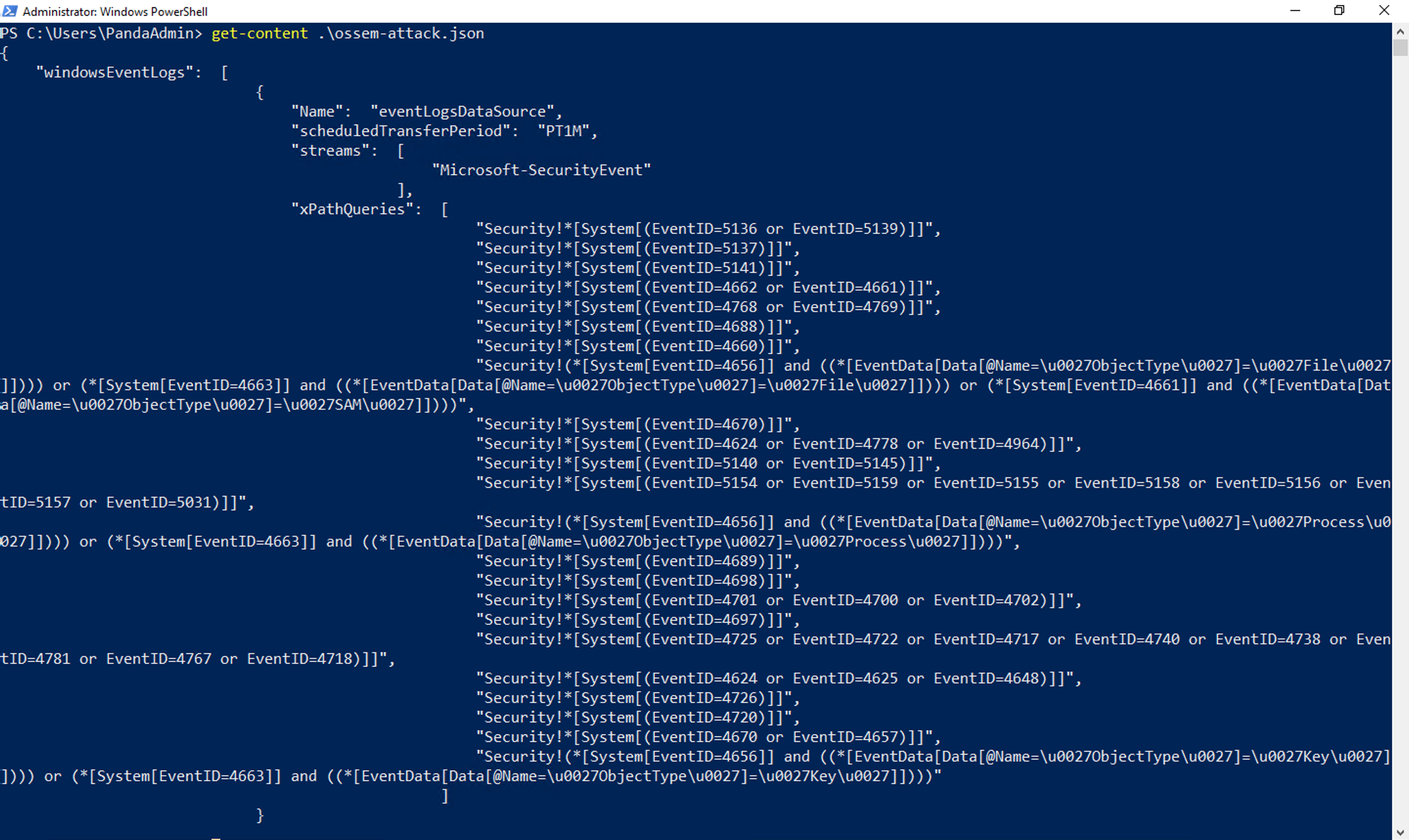
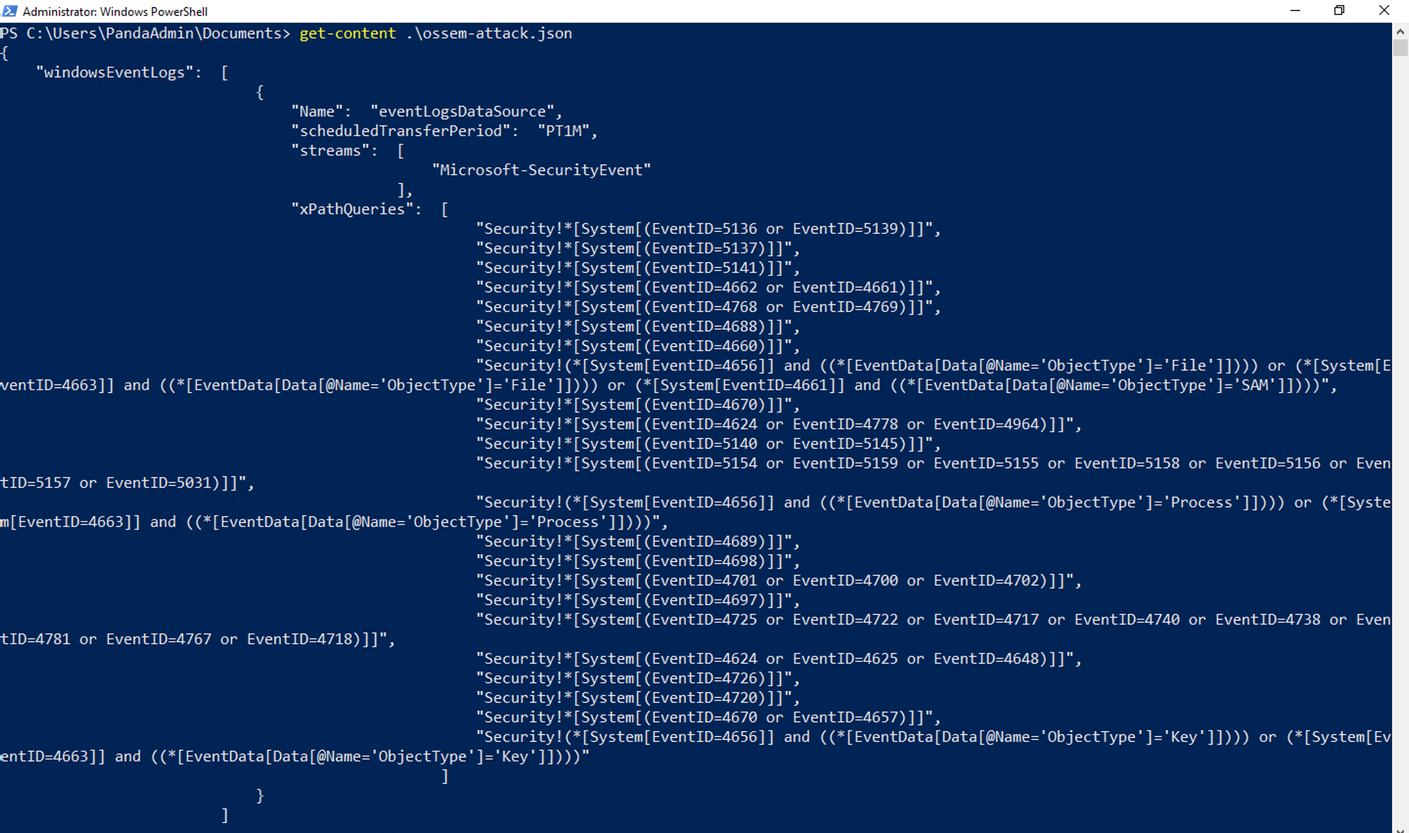
Updated OSSEM Detection Model Blog Post

diff --git a/docs/_posts/2021-06-22-ossem_generation_xpath_queries.md b/docs/_posts/2021-06-22-ossem_generation_xpath_queries.md
@@ -11,21 +11,17 @@ subclass: 'post'
 author: jose
 ---
 
-In this blogpost, we will introduce the [OSSEM Detection Model](https://github.com/OTRF/OSSEM-DM) project and show you how to use it to create Windows Event **XPath queries**. These XPath queries can then be used to improve your data collection strategy.
-
-# Prerequisites
-
-We highly recommend reading the following blog post about OSSEM Data Dictionaries (DD): [OSSEM Data Dictionaries: Correlating Security Telemetry](https://blog.openthreatresearch.com/ossem_security_telemetry_correlation). That should provide some context about the project.
+In this blog post, we will introduce the [OSSEM Detection Model](https://github.com/OTRF/OSSEM-DM) project and show you how to use it to create `Windows Event XPath queries`. These XPath queries can then be used to improve your data collection strategy.
 
 # OSSEM Detection Model
 
-### What is OSSEM?
+## What is OSSEM?
 
-The Open Source Security Events Metadata (OSSEM) is a community-led project that focuses primarily on the documentation and standardization of security event logs from diverse data sources and operating systems. Security events are documented in a `data dictionary (DD)` format, and they can be used as a reference while mapping data sources to data analytics used to validate the detection of adversarial techniques. In addition, the project provides a `common data model (CDM)` that can be used for data engineers during data normalization procedures to allow security analysts to query and analyze data across diverse data sources. Finally, the project also provides documentation about the structure and relationships identified in specific data sources to facilitate the development of data analytics and adversary behavior representation from a data perspective. These relationships are stored under the `detection model (DM)` section of the project.
+OSSEM stands for `Open Source Security Events Metadata`, and it is a community-led project that focuses primarily on the documentation and standardization of security event logs from diverse data sources and operating systems. Security events are documented in a `data dictionary (DD)` format, and they can be used as a reference while mapping data sources to data analytics used to validate the detection of adversarial techniques. In addition, the project provides a `common data model (CDM)` that can be used for data engineers during data normalization procedures to allow security analysts to query and analyze data across diverse data sources. Finally, the project also provides documentation about the structure and relationships identified in specific data sources to facilitate the development of data analytics and adversary behavior representation from a data perspective. These relationships are stored under the `detection model (DM)` section of the project.
 
 ![](assets/images/blog/ossem_correlating_events/2021-06-21_01_ossem_components.png)
 
-### What are Data Relationships?
+## What are Data Relationships?
 
 Data relationships are structures that can help us describe and represent actions and behaviors (group of related actions) that can be performed within a network environment. The [OSSEM relationships](https://github.com/OTRF/OSSEM-DM/tree/main/relationships) are stored in an easy to consume `yaml` format. Here is an example of a relationship that describes the action of a [user requesting access to a file](https://github.com/OTRF/OSSEM-DM/blob/main/relationships/user_requested_access_to_file.yml):
 
@@ -57,15 +53,15 @@ notes:
   - 'Event 4656: This event generates only if object’s SACL has required ACE to handle specific access right use.'
 ```
 
-### What metadata is provided by the OSSEM DM project?
+## What metadata is provided by the OSSEM DM project?
 
 - **ATT&CK mapping**: The data sources piece of the [MITRE-ATT&CK framework](https://attack.mitre.org/) has been updated recently, and it now includes more metadata such as `platform`, `collection layer`, `data components` and `data relationships`. You can find more information about it [here](https://github.com/mitre-attack/attack-datasources). If an OSSEM relationship is part of ATT&CK data sources metadata, we provide the name of the data source and the data component.
 
-- **Behavior**: The activity described by a relationship is represented by three elements, `source`, `relationship` and `target`. Source is usually the element that performs the main action in the relationship. For example, `user` -> `created` -> `file`. In this example, `user` is the `source`, `created` is the `relationship` and `file` the target. There are cases where the `source` does not have a `target` and there is because the `relationship` is simply describing the state of the `source`. For example, `file modified`. 
+- **Behavior**: The activity described by a relationship is represented by three elements, `source`, `relationship` and `target`. Source is usually the element that performs the main action in the relationship. For example, `user` -> `created` -> `file`. In this example, `user` is the `source`, `created` is the `relationship` and `file` the target. There are cases where the `source` does not have a `target`, and it is because the `relationship` is simply describing the state of the `source`. For example, `file modified`. 
 
 - **Security Events**: Every relationship within the OSSEM-DM project is based on security events. Therefore, in this section of the yaml file, we share event logs that can be collected in you network environment. Also, we add a `filter_in` section for each event to provide additional context for those events that might have multiple definitions depending on how they are created. For example, if we use Security event [4656 (A handle to an object was requested)](https://docs.microsoft.com/en-us/windows/security/threat-protection/auditing/event-4656), we can tell that the values of the `ObjectType` field can reference different objects such as `file`, `windows registry key`, and even `process`.
 
-### How can we define data relationships?
+## How can we define data relationships?
 
 There are three basic steps that you can follow to define a relationship:
 * Identify sources of data
@@ -74,7 +70,7 @@ There are three basic steps that you can follow to define a relationship:
 
 **a) Identify sources of data**
 
-We would start by choosing event logs that have been collected in our network environment. After that, we would try to understand the context behind these events, and check if we have already documented them somewhere. Here is where data dictionaries are very useful because they can expedite the research process. As mentioned before, the OSSEM project has a [data dictionaries](https://github.com/OTRF/OSSEM-DD) component that you can use as a reference. For the purpose of this section, let's use event 4656 as an example. The image below, is the [YAML representation of the event](https://github.com/OTRF/OSSEM-DD/blob/main/windows/etw-providers/Microsoft-Windows-Security-Auditing/events/event-4656_v1.yml)) in the OSSEM DD project:
+We would start by choosing event logs that have been collected in our network environment. After that, we would try to understand the context behind these events, and check if we have already documented them somewhere. Here is where data dictionaries are very useful because they can expedite the research process. As mentioned before, the OSSEM project has a [data dictionaries (DD)](https://github.com/OTRF/OSSEM-DD) component that you can use as a reference. For the purpose of this section, let's use event 4656 as an example. The image below, is the [YAML representation of the data dictionary for this event](https://github.com/OTRF/OSSEM-DD/blob/main/windows/etw-providers/Microsoft-Windows-Security-Auditing/events/event-4656_v1.yml) in the OSSEM DD project:
 
 ```yaml
 title: 'Event ID 4656: A handle to an object was requested'
@@ -119,29 +115,31 @@ tags:
 
 **b) Identify data entities**
 
-After understanding the context provided by an event log, we can categorize the metadata that it provides. For example, in event 4656, there is information about a `user` requesting access to an `object`. These two elements identified in the event are what we call entities and as we also mentioned before, an object can represent multiple things. Therefore, we can easily document more than 2 entities in this event.
+After understanding the context provided by an event log, we can categorize the metadata that it provides. For example, in event 4656, there is information about a `user` requesting access to an `object`. These two elements identified in the event are what we call `entities`. As we mentioned before, an object can represent multiple things, therefore we can easily document more than 2 entities in this event.
 
 **c) Identify relationships among data entities**
 
-Based on the previous section, we can now identify the activity that connects our entities. The main entity performing the action would be the `source` while the other one is the `target`. In event 4656, the `user` is the `source` meanwhile `file`, `Windows registry`, and `process` would be considered `targets`. Finally, the action of `requesting access` would be the `relationship`.
+Based on the previous sections, we can now identify the activity that connects our entities. The main entity performing the action would be the `source` while the other one is the `target`. In event 4656, the `user` is the `source` meanwhile `file`, `Windows registry`, and `process` would be considered `targets`. Finally, the action of `requesting access` would be the `relationship`.
 
 ![](assets/images/blog/ossem_creating_xpath_queries/2021-06-22_01_relationships_among_entities.png)
 
 # What Can We Do with All this Information?
 
-There are several things you can do with the research shared through OSSEM DM. The example we are covering in this post is related to the creation of Windows Event XPath queries to create custom filters and explore Windows security events. You might be asking yourself how this is possible from YAML files. We carefully worked on the schema of each relationship in the project to allow the output of the research to be in different formats. For example, XML.
+There are several things you can do with the research shared through OSSEM DM. The example we are covering in this post is related to the creation of `Windows Event XPath queries` to create custom filters and explore Windows security events. You might be asking yourself, *how is this possible from YAML files?*. We carefully worked on the schema of each relationship in the project to allow the output of the research to be in different formats. For example, XML.
 
-## Can't You Filter Events via Event Viewer?
+## Can't We Filter Events via EventViewer Already?
 
-Yes, but there are some limitations when trying to do it all only via the main UI filters. There are some additional options that could help you to customize your searching. Let's walk through an example of how to filter events via Event Viewer:
+Yes, but there are some limitations when trying to do it all only via the main UI filters. There are some additional options that could help you to customize your searching. Let's walk through an example of how to filter events via EventViewer:
+* Explore events via EventViewer
+* Filter relevant telemetry
 
-**a) Exploring Events via Event Viewer**
+**a) Explore events via EventViewer**
 
-If you open Event Viewer and go to `Windows Logs` > `Security`, you can see different event logs such as `4688`, `4656`, and `5156`.
+If you open EventViewer and go to `Windows Logs` > `Security`, you can see different event logs such as `4688`, `4656`, and `5156`.
 
 ![](assets/images/blog/ossem_creating_xpath_queries/2021-06-22_02_event_viewer_application.png)
 
-**b) Filtering relevant telemetry**
+**b) Filter relevant telemetry**
 
 If you did not know, when you select the option to filter the current log, there are two ways to do this. One is named `Filter` and the other one `XML`. When you use the `Filter` option, the application will automatically create an `XPath query` that you can see if you switch the filter option to `XML`. Let's use this basic filter to only show events of `EventID` 4656. The difference between `Filter` and `XML` is that with `XML` we have more freedom to search for patterns in the event that go beyond the `EventID`, `Event Level`, `Task Category` and even `Event Sources`. With `XML`, you can access the `EventData` node of the XML representation of the security event.
 
@@ -151,12 +149,13 @@ If you did not know, when you select the option to filter the current log, there
 
 ## Create XPath Queries Mapped to MITRE ATT&CK
 
-As mentioned before, if we want to filter Windows Security events using a more complex logic, we would use XPath queries. Let's use all the relationships that we have already mapped to the [MITRE-ATT&CK](https://github.com/OTRF/OSSEM-DM/tree/main/use-cases/mitre_attack) project, translate them to XML documents, validate the search patterns and export XPath queries all via PowerShell.
-
-In OSSEM DM, we programmatically create multiple files as part of the use cases we cover by processing every single relationship in YAML format. As mentioned before, we map everything to ATT&CK and we save the output as [JSON](https://raw.githubusercontent.com/OTRF/OSSEM-DM/main/use-cases/mitre_attack/techniques_to_events_mapping.json) and [YAML](https://raw.githubusercontent.com/OTRF/OSSEM-DM/main/use-cases/mitre_attack/techniques_to_events_mapping.yaml) files. For this post, we are going to use the JSON one.
-
+As mentioned before, if we want to filter Windows Security events using a more complex logic, we would use XPath queries. Let's use all the relationships that we have already mapped to the [MITRE-ATT&CK](https://github.com/OTRF/OSSEM-DM/tree/main/use-cases/mitre_attack) project and translate them to XML documents via PowerShell. We will validate the search patterns and export XPath queries in next sections of this post.
+* Download relationships mapped to ATT&CK
+* Create XML query files
 
 **a) Download relationships mapped to ATT&CK**
+
+In OSSEM DM, we programmatically create multiple files as part of the use cases we cover by processing every single relationship in YAML format. As mentioned before, we map everything to ATT&CK and we save the output as [JSON](https://raw.githubusercontent.com/OTRF/OSSEM-DM/main/use-cases/mitre_attack/techniques_to_events_mapping.json) and [YAML](https://raw.githubusercontent.com/OTRF/OSSEM-DM/main/use-cases/mitre_attack/techniques_to_events_mapping.yaml) files. For this post, we are going to use the JSON one.
 
 - Open PowerShell with Administrator rights.
 
@@ -329,10 +328,12 @@ get-content .\windows-registry.xml
 ## Test XPath Queries
 
 As a final validation step, let's run our XPath queries using EventViewer and PowerShell to validate its syntax.
+* Testing through EventViewer
+* Testing through PowerShell
 
 **a) Testing through EventViewer**
 
-- Copy the output of the command that we ran previously named`get-content` in the `XML` Event Viewer filter option and click `OK`.
+- Copy the output of the command that we ran previously named`get-content` in the `XML` EventViewer filter option and click `OK`.
 
 ![](assets/images/blog/ossem_creating_xpath_queries/2021-06-22_11_validating_xml_query_event_viewer.png)
 
@@ -349,24 +350,28 @@ Get-WinEvent -FilterXml $registry_test
 
 ![](assets/images/blog/ossem_creating_xpath_queries/2021-06-22_13_validating_xml_query_execution.png)
 
-**C) Exporting XPath Queries**
+## Export XPath Queries
+
+Export XPath queries using the `QueryList` command.
 
 ```PowerShell
-[xml]$Account = get-content ..\windows-registry.xml
-$Account.QueryList.Query | ForEach-Object {-join ($_.Select.Path, '!', $_.Select.'#text') }
+[xml]$registry = Get-Content .\windows-registry.xml
+$registry.QueryList.Query | ForEach-Object {-join ($_.Select.Path, '!', $_.Select.'#text') }
 ```
 
-# What else can we do with this XPath Queries?
+![](assets/images/blog/ossem_creating_xpath_queries/2021-06-22_17_xpath_query_exported.png)
 
-Within the Open Threat Research (OTR) projects portfolio, you can find a project named [Azure Sentinel To-Go](https://github.com/OTRF/Azure-Sentinel2Go). It allows you to expedite the deployment of an Azure Sentinel lab along with other Azure resources and a data ingestion pipeline to consume pre-recorded datasets for research purposes. One of the recent updates to its Windows data connectors allows the use of `XPath` queries to customize the collection of Windows Security events. We could use the previous section and the its output to help `Azure Sentinel` users by giving them an idea of how they can improve their data collection strategy based on the research behind the OSSEM DM project.
+# What else can we do with these XPath Queries?
+
+Within the Open Threat Research (OTR) projects portfolio, you can find a project named [Azure Sentinel To-Go](https://github.com/OTRF/Azure-Sentinel2Go). It allows you to expedite the deployment of an Azure Sentinel lab along with other Azure resources and a data ingestion pipeline to consume pre-recorded datasets for research purposes. One of the recent updates to its `Windows Security event data connectors` allows the use of `XPath` queries to customize the collection of Windows Security events. We could use the previous sections and their outputs to help `Azure Sentinel` users by giving them an idea of how to improve their data collection strategy based on the research behind the OSSEM DM project.
 
 ![](assets/images/blog/ossem_creating_xpath_queries/2021-06-22_14_windows_security_events_connector.png)
 
-## Creating Xpath Queries for Azure Sentinel**
+## Creating Xpath Queries for Azure Sentinel
 
-Even though we were able to export XPath queries from the OSSEM DM project, we need to change the format a little bit to make it compatible with the APIs used to configure the new version of the Windows Security event data connector in Azure Sentinel.
+Even though we were able to export XPath queries from the OSSEM DM project, we need to change their format a little bit to make them compatible with the APIs used to configure the new version of the `Windows Security event data connector` in `Azure Sentinel`.
 
-You can use the following PowerShell code to aggregate all the `.xml` files that we created before from the [JSON](https://raw.githubusercontent.com/OTRF/OSSEM-DM/main/use-cases/mitre_attack/techniques_to_events_mapping.json) file in the OSSEM DM GitHub repository.
+You can use the following PowerShell code to aggregate all the `.xml` files that we created before from the [JSON](https://raw.githubusercontent.com/OTRF/OSSEM-DM/main/use-cases/mitre_attack/techniques_to_events_mapping.json) file in the OSSEM DM GitHub repository, and create a new JSON file that contains all our XPath queries in the right format.
 
 ```PowerShell
 $allFiles = Get-ChildItem -Path *.xml
@@ -397,7 +402,7 @@ $AllDataSources += $DataSource
 
 @{
     windowsEventLogs = $AllDataSources
-} | Convertto-Json -Depth 4 | Set-Content "ossem-attack.json" -Encoding UTF8
+} | Convertto-Json -Depth 4 | ForEach-Object { [System.Text.RegularExpressions.Regex]::Unescape($_) } | Set-Content "ossem-attack.json"
 ```
 
 ![](assets/images/blog/ossem_creating_xpath_queries/2021-06-22_15_getting_json_file_azure_sentinel.png)
@@ -411,13 +416,15 @@ get-content .\ossem-attack.json
 ![](assets/images/blog/ossem_creating_xpath_queries/2021-06-22_16_json_file_review.png)
 
 
-# How Can We Use This File in Azure Sentinel?
+# How Can We Use This JSON File in Azure Sentinel?
 
-For that, I recommed readhing the folling blog post written by Roberto Rodriguez ([@Cyb3rWard0g](https://twitter.com/Cyb3rWard0g)) from the MSTIC R&D team.
+For that, I recommed reading the following [blog post](https://techcommunity.microsoft.com/t5/azure-sentinel/testing-the-new-version-of-the-windows-security-events-connector/ba-p/2483369) written by Roberto Rodriguez ([@Cyb3rWard0g](https://twitter.com/Cyb3rWard0g)) from the MSTIC R&D team.
 
-Thank you! That's it for today. We are working on more use cases to operationalize our researcher shared through the OSSEM project.
+Thank you! That's it for today. We are working on more use cases to operationalize our research shared through the OSSEM project.
 
 # References
 * [PowerShell script to generate XML files with XPath queries based on OSSEM relationships mapped to ATT&CK and the creation of the file used with the new Azure Sentinel data connector](https://github.com/OTRF/OSSEM-DM/blob/main/scripts/ossemDM_XPath_Queries.ps1)
-* [OSSEM Detection Modeling GitHub repository](https://github.com/OTRF/OSSEM-DD)
+* [OSSEM Detection Model - GitHub repository](https://github.com/OTRF/OSSEM-DD)
 * [OSSEM Project Website](https://ossemproject.com/intro.html)
+* [Azure Sentinel To-Go - XML and JSON files](https://github.com/OTRF/Azure-Sentinel2Go/tree/master/azure-sentinel/linkedtemplates/data-collection-rules/rules/ossem-attack)
+* [Azure Sentinel To-Go - GitHub repository](https://github.com/OTRF/Azure-Sentinel2Go)

diff --git a/docs/_posts/2021-06-21-ossem_security_telemetry_correlation.md b/docs/_posts/2021-06-21-ossem_security_telemetry_correlation.md
@@ -15,7 +15,7 @@ In this blogpost, we will share a basic use case on correlating security telemet
 
 # Pre-requisites
 
-### Python Libraries Installation
+## Python Libraries Installation
 
 In order to use the 
 * [Openhunt](https://github.com/OTRF/openhunt)
@@ -27,19 +27,19 @@ pip install openhunt
 pip install pandas
 ```
 
-### Jupyter Notebook Available
+## Jupyter Notebook Available
 
-All the python code used in this blogpost will be available through a notebook [here](https://github.com/OTRF/OSSEM/blob/master/docs/dd/security_telemetry_correlation/security_events_correlation.ipynb), and you can use it as a reference to extend your analysis.
+All the python code used in this blogpost will be available through a notebook [here](https://ossemproject.com/dd/notebooks/security_events_correlation.html), and you can use it as a reference to extend your analysis.
 
-# Introducing OSSEM - Data Dictionaries
+# OSSEM - Data Dictionaries
 
-### What is OSSEM?
+## What is OSSEM?
 
-Open Source Security Events Metadata (OSSEM) is a community-led project that focuses primarily on the documentation and standardization of security event logs from diverse data sources and operating systems. Security events are documented in a `data dictionary (DD)` format, and they can be used as a reference while mapping data sources to data analytics used to validate the detection of adversarial techniques. In addition, the project provides a `common data model (CDM)` that can be used for data engineers during data normalization procedures to allow security analysts to query and analyze data across diverse data sources. Finally, the project also provides documentation about the structure and relationships identified in specific data sources to facilitate the development of data analytics and adversary behavior representation from a data perspective. This relationships are stored under the `detection model (DM)` section of the project.
+OSSEM stands for `Open Source Security Events Metadata`, and it is a community-led project that focuses primarily on the documentation and standardization of security event logs from diverse data sources and operating systems. Security events are documented in a `data dictionary (DD)` format, and they can be used as a reference while mapping data sources to data analytics used to validate the detection of adversarial techniques. In addition, the project provides a `common data model (CDM)` that can be used for data engineers during data normalization procedures to allow security analysts to query and analyze data across diverse data sources. Finally, the project also provides documentation about the structure and relationships identified in specific data sources to facilitate the development of data analytics and adversary behavior representation from a data perspective. These relationships are stored under the `detection model (DM)` section of the project.
 
 ![](assets/images/blog/ossem_correlating_events/2021-06-21_01_ossem_components.png)
 
-### What is a Data Dictionary?
+## What is a Data Dictionary?
 
 Data Dictionaries are structures that can help us to get a better understanding of the security context provided by security telemetry. Most of the metadata within a dictionary is obtained directly from telemtry providers documentation. In addition, the OSSEM project extends the content of data dictionaries with metadata such as the `standard name` for an event field, `references` and `tags`. [OSSEM data dictionaries](https://github.com/OTRF/OSSEM-DD) are stored in an easy to consume format such as `yaml`. Here is an example of a data dictionary for [Sysmon event 1 (Process Creation)](https://github.com/OTRF/OSSEM-DD/blob/main/windows/sysmon/events/event-1.yml):
 
@@ -68,11 +68,11 @@ tags:
 - Windows
 ```
 
-### Why do we need Data Dictionaries?
+## Why do we need Data Dictionaries?
 
 A data dictionary is not just a collection of data provided by a security application. In fact, the main goal of documenting security telemetry is to understand the activity in our network environment that triggered the generation of data. In addition, we need to identify network concepts such as a `user` or `process` that are represented and described by every data field.
 
-### Why do we need Standard Names?
+## Why do we need Standard Names?
 
 One of the most helpful features provided by OSSEM data dictionaries is the standardization of data fields names. This can help us to correlate telemetry not only among data schemas provided by a specific security application, but also among data schemas from different telemetry providers such as `Security Auditing`, `Sysmon`, and `OSQuery`.
 
@@ -80,7 +80,7 @@ One of the most helpful features provided by OSSEM data dictionaries is the stan
 
 One of the benefits of documenting and standardizing security telemetry is that we can correlate it based on data fields such as `ProcessGuid` and `LogonId`. The correlation process might be easier when working with security telemetry provided by a single provider. On the other hand, working with data from different telemetry providers might be more difficult because of the different name syntax used by each provider. Indeed, for this type of use cases is where the standardization feature of OSSEM data dictionaries becomes more relevant.
 
-### Microsoft Security Auditing Telemetry Correlation
+## Microsoft Security Auditing Telemetry Correlation
 
 **a) Collecting data dictionaries content**
 
@@ -162,7 +162,7 @@ ossem.event_to_field_network(data_fields_2,type = 'standard')
 
 As you can see in the image above, the link between secuity events 4624 and 4688 can be defined through the standard data field **user_logon_id** (represented by `TargetLogonId` in 4624 and `SubjectLogonId` in 4688) and not **target_user_logon_id**.
 
-## What Are The Next Steps Regarding Data Dictionaries?
+# What Are The Next Steps Regarding Data Dictionaries?
 
 When we started the standardazitaion process for OSSEM - Data Dictioanries, we considered every security event having a unique standard structure. However, while performing research activities at [Open Threat Research (OTR)](https://blog.openthreatresearch.com/), we realized that, in some cases, the standard structure of some events may change based on the values of some data fields. 
 
